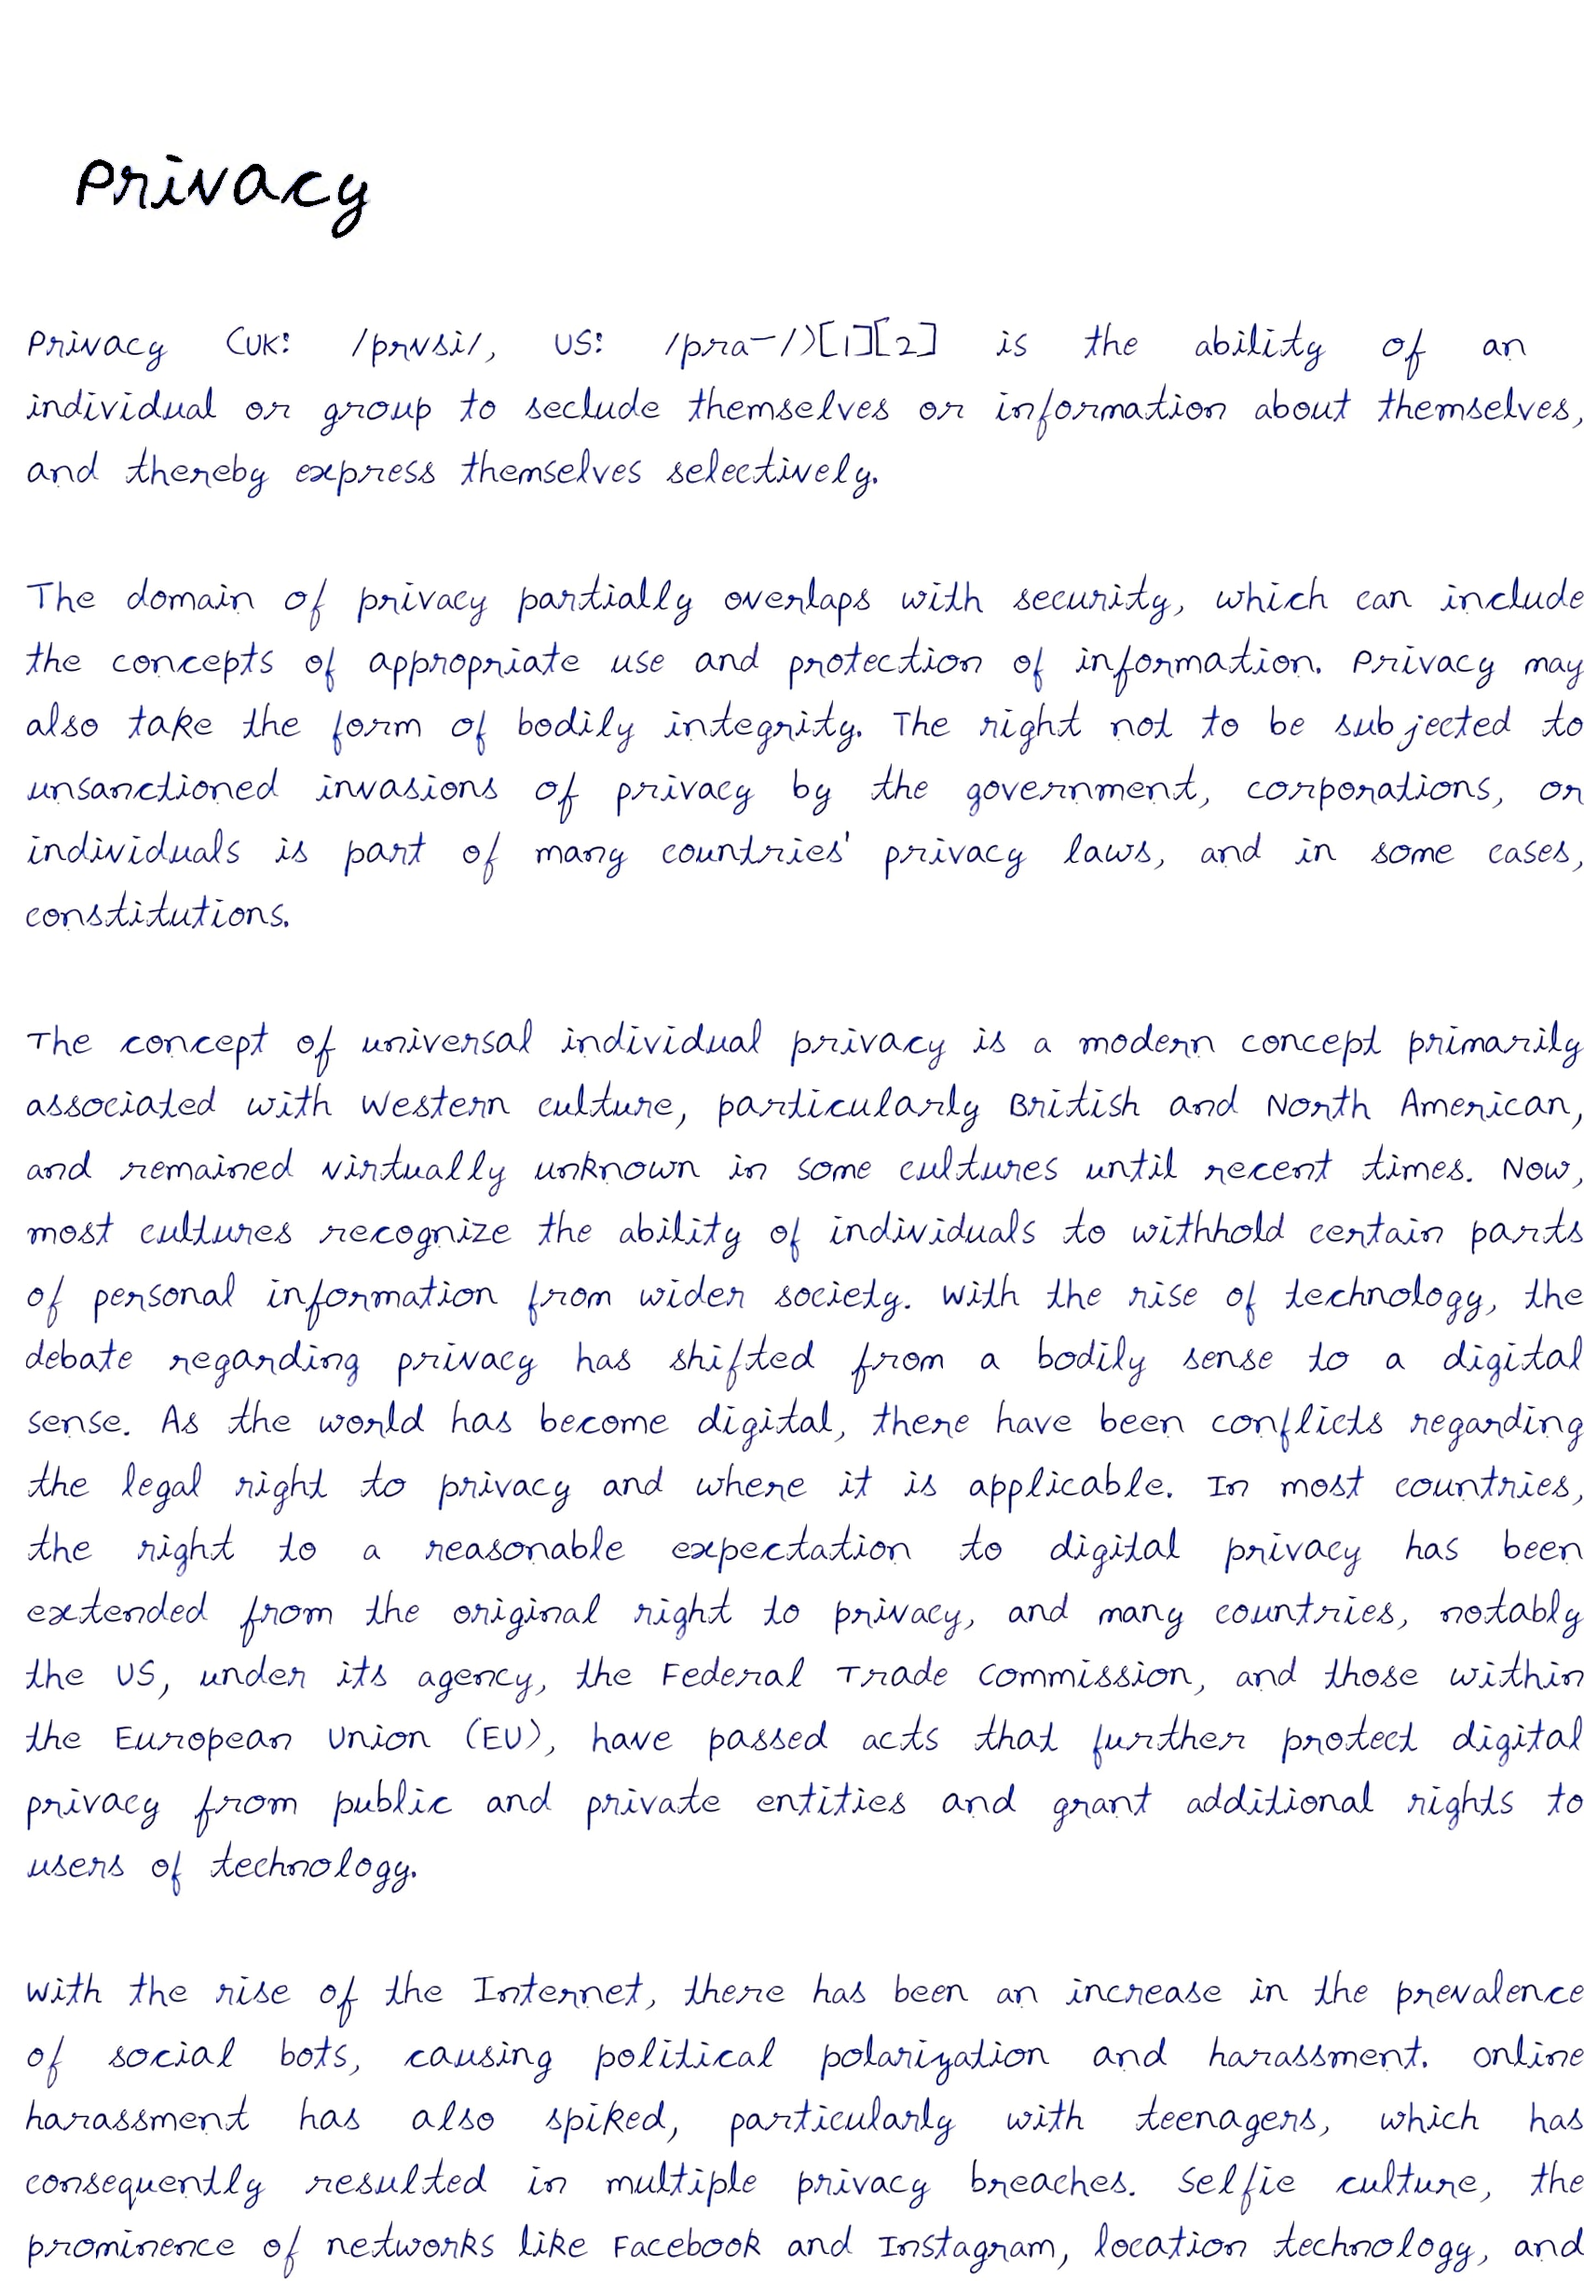
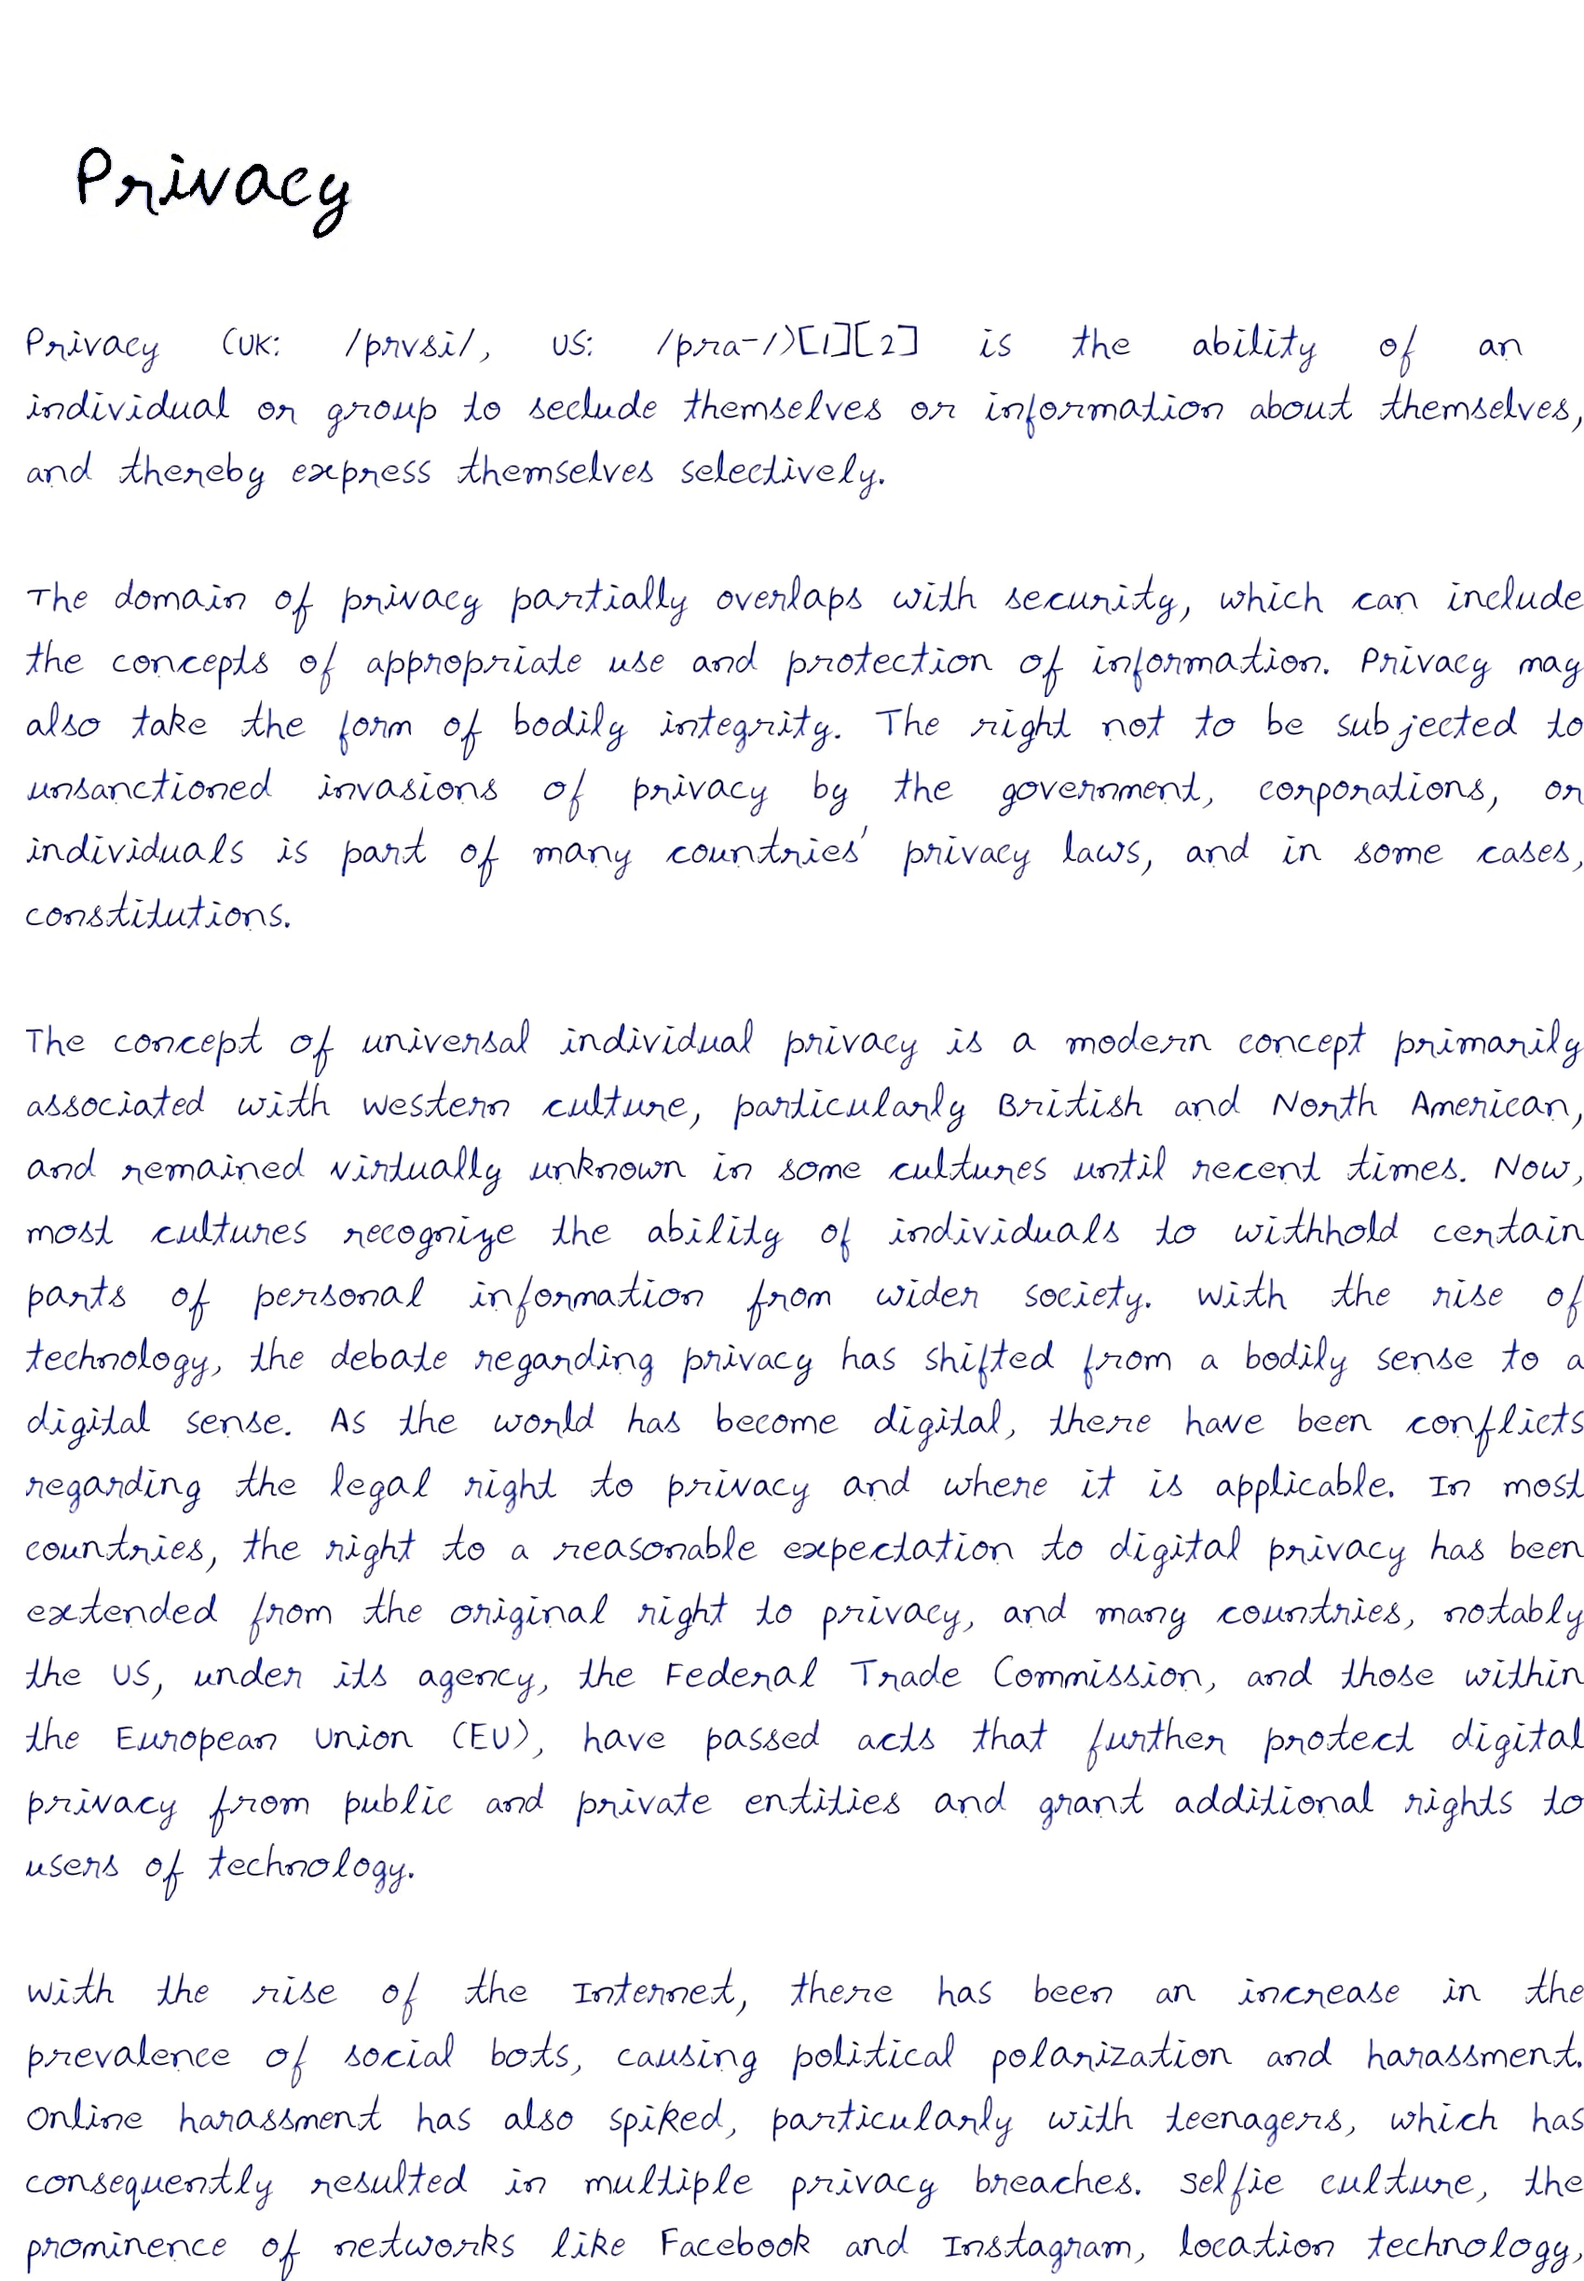
variable names changed

diff --git a/config.py b/config.py
@@ -10,7 +10,8 @@ current_page_number = 1             # holds the current page number
 scale = 1                           # the functions import an image and scale it according to this value
 key_start_symbol = "<"              # customizable key start symbol
 key_end_symbol = ">"                # customizable key end symbol
-line_word_end_data = []
+line_word_end_data = []             # holds positions of the spaces in a line
+min_justify_limit = 0.75            # the text in a line will be justified only when this much of a line is full
 
 # Image variables set to None ( Initially )
 current_character_img = None        # holds the image of the current character

diff --git a/page_formatter.py b/page_formatter.py
@@ -41,7 +41,7 @@ def complete_line() -> None:
     scaled_white_pixel = cv2.resize(white_pixel,(1,int(white_pixel.shape[0]*config.scale)) , interpolation= cv2.INTER_LINEAR)[:,0:1]
 
     # add the extra white pixels
-    if config.current_line_img.shape[1] < config.page_width*0.75:
+    if config.current_line_img.shape[1] < config.page_width*config.min_justify_limit:
         for i in range(config.page_width - current_line_img_length):
             config.current_line_img = cv2.hconcat([config.current_line_img, scaled_white_pixel])
 
